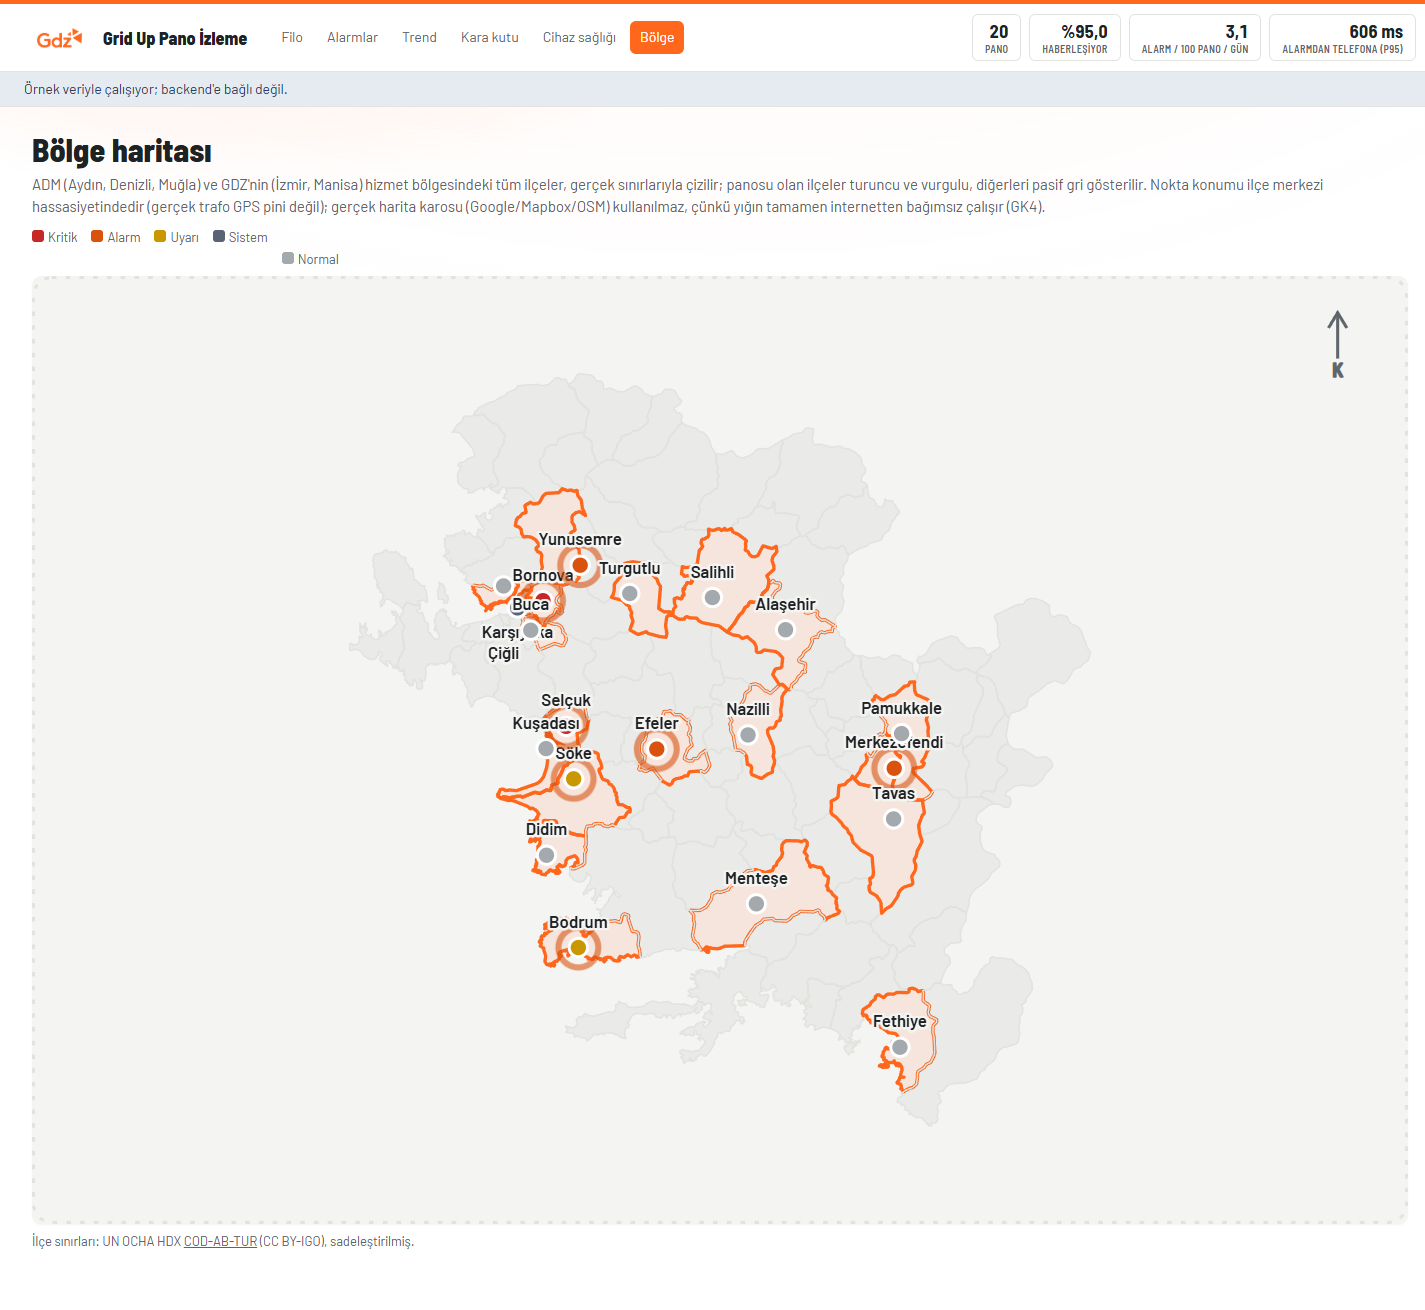
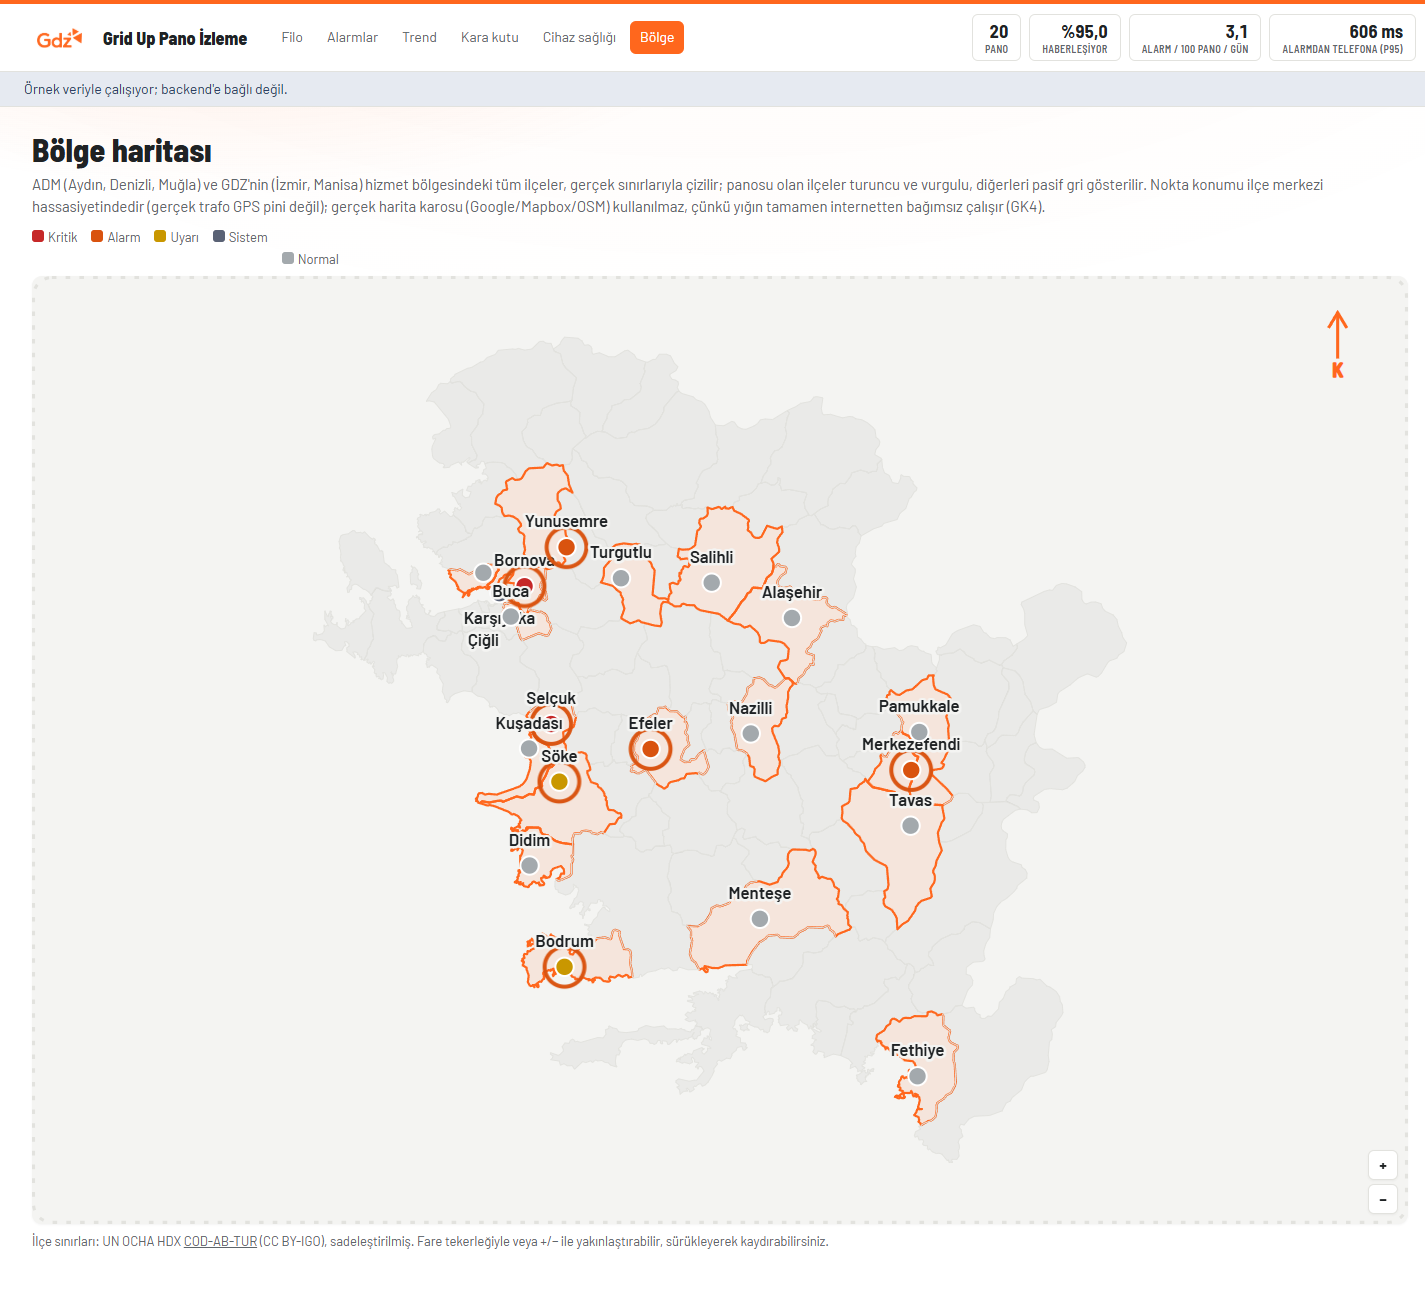
feat(frontend): bolge haritasina zoom/pan, turuncu Kuzey oku, sinir hatasi duzeltmesi
Kullanici geri bildirimi (Mentese ekran goruntusuyle): "Harita olcegini biraz
daha buyut zoom in zoom out da yapilabilsin sag ustteki Kuzey okunu da
turuncu yap... bi kenari duz turuncu var bir de kenari turuncu ici beyaz
cizgiler var sadece duz turuncu olsun sinirlar."

1) Zoom/pan: GeoHarita'ya view={scale,tx,ty} state'i eklendi, tum ilce/nokta
   katmani tek bir <g transform> icine alindi (cerceve ve Kuzey oku sabit
   HUD ogeleri olarak disarida kaldi). Fare tekerlegi imlecin altindaki
   noktayi sabit tutarak yakinlastirir, surukleme kaydirir, sag altta
   +/-/sifirla dugmeleri var (dokunmatik icin de). Nokta/etiket boyutu ve
   kontur kalinliklarinin zoom'la devasa buyumemesi icin /view.scale telafisi
   ve vectorEffect="non-scaling-stroke" eklendi. MAP_PAD 64->40, varsayilan
   gorunum de biraz buyudu.

2) Kuzey oku: .geo-compass rengi notr griden marka turuncusuna cekildi.

3) "Beyaz cizgili" sinir hatasinin gercek bir kok nedeni vardi: ilce
   path'leri fillRule="evenodd" ile ciziliyordu (delikli sekiller icin
   onceden eklenmis bir onlem). Douglas-Peucker sadelestirmesi bazi
   ilcelerde kendine-kesisen bir sinir uretebiliyor — evenodd her kesisimde
   dolgu durumunu tersine cevirdigi icin bu, ilcenin ICINDE dolgusuz
   (beyaz) seritler/delikler olusturuyordu. Gercek il/ilce sinirlarinda
   delik/enklav bu 5 ilde pratikte yok; fillRule kaldirildi (varsayilan
   nonzero), kendine-kesisen kesitlerde artik yanlis "delik" olusmuyor.
[…]

diff --git a/frontend/src/pages/BolgeHaritasi.tsx b/frontend/src/pages/BolgeHaritasi.tsx
@@ -1,3 +1,4 @@
+import { useCallback, useRef, useState } from "react";
 import { Link } from "react-router-dom";
 import type { PanelSummary, Prio } from "../api/types";
 import ilceSinirlari from "../data/ilce-sinirlari.json";
@@ -102,7 +103,9 @@ function layoutLabelOffsets(points: { x: number; y: number; text: string }[]): n
 
 const MAP_W = 900;
 const MAP_H = 620;
-const MAP_PAD = 64;
+const MAP_PAD = 40;
+const ZOOM_MIN = 1;
+const ZOOM_MAX = 6;
 
 /** Gercek enlem/boylamdan yerel, olcek-korumali bir izdusum (kucuk bolgesel alanda yeterince
  *  dogru — boylam, ortalama enlemin kosinusuyle duzeltilir ki sekil dogu-bati yonunde sikismasin). */
@@ -192,52 +195,128 @@ function GeoHarita({ panels, allCount }: { panels: Geo[]; allCount: number }) {
   const dotPoints = separateDots(rawPoints, 17);
   const labelOffsets = layoutLabelOffsets(dotPoints.map((d) => ({ x: d.x, y: d.y, text: d.p.name.split(" ")[0] })));
 
+  const svgRef = useRef<SVGSVGElement>(null);
+  const dragRef = useRef<{ x: number; y: number; tx: number; ty: number } | null>(null);
+  const [view, setView] = useState({ scale: 1, tx: 0, ty: 0 });
+
+  const toSvgPoint = useCallback((clientX: number, clientY: number) => {
+    const rect = svgRef.current?.getBoundingClientRect();
+    if (!rect) return { ux: MAP_W / 2, uy: MAP_H / 2 };
+    return { ux: ((clientX - rect.left) / rect.width) * MAP_W, uy: ((clientY - rect.top) / rect.height) * MAP_H };
+  }, []);
+
+  const zoomAt = useCallback((ux: number, uy: number, factor: number) => {
+    setView((v) => {
+      const scale = Math.min(ZOOM_MAX, Math.max(ZOOM_MIN, v.scale * factor));
+      if (scale === v.scale) return v;
+      const cx = (ux - v.tx) / v.scale;
+      const cy = (uy - v.ty) / v.scale;
+      return { scale, tx: ux - cx * scale, ty: uy - cy * scale };
+    });
+  }, []);
+
+  const onWheel = (e: React.WheelEvent<SVGSVGElement>) => {
+    e.preventDefault();
+    const { ux, uy } = toSvgPoint(e.clientX, e.clientY);
+    zoomAt(ux, uy, e.deltaY < 0 ? 1.18 : 1 / 1.18);
+  };
+  const onPointerDown = (e: React.PointerEvent<SVGSVGElement>) => {
+    if (view.scale === ZOOM_MIN) return;
+    (e.target as Element).setPointerCapture(e.pointerId);
+    dragRef.current = { x: e.clientX, y: e.clientY, tx: view.tx, ty: view.ty };
+  };
+  const onPointerMove = (e: React.PointerEvent<SVGSVGElement>) => {
+    const drag = dragRef.current;
+    const rect = svgRef.current?.getBoundingClientRect();
+    if (!drag || !rect) return;
+    const dx = ((e.clientX - drag.x) / rect.width) * MAP_W;
+    const dy = ((e.clientY - drag.y) / rect.height) * MAP_H;
+    setView((v) => ({ ...v, tx: drag.tx + dx, ty: drag.ty + dy }));
+  };
+  const onPointerUp = () => {
+    dragRef.current = null;
+  };
+
   return (
     <>
-      <svg className="geo-map" viewBox={`0 0 ${MAP_W} ${MAP_H}`} role="group" aria-label="ADM/GDZ hizmet bölgesi ve panoların gerçek konumu">
-        <rect className="geo-frame" x={1} y={1} width={MAP_W - 2} height={MAP_H - 2} rx={12} />
-        <g className="geo-compass" transform={`translate(${MAP_W - 46}, 40)`}>
-          <line x1={0} y1={14} x2={0} y2={-14} />
-          <path d="M -6 -6 L 0 -16 L 6 -6" />
-          <text y={26} textAnchor="middle">K</text>
-        </g>
+      <div className="geo-map-wrap">
+        <svg
+          ref={svgRef}
+          className="geo-map"
+          viewBox={`0 0 ${MAP_W} ${MAP_H}`}
+          role="group"
+          aria-label="ADM/GDZ hizmet bölgesi ve panoların gerçek konumu"
+          onWheel={onWheel}
+          onPointerDown={onPointerDown}
+          onPointerMove={onPointerMove}
+          onPointerUp={onPointerUp}
+          onPointerLeave={onPointerUp}
+          style={{ cursor: view.scale > ZOOM_MIN ? "grab" : "default" }}
+        >
+          <rect className="geo-frame" x={1} y={1} width={MAP_W - 2} height={MAP_H - 2} rx={12} />
+          <g transform={`translate(${view.tx} ${view.ty}) scale(${view.scale})`}>
+            {/* ADM/GDZ'nin tum hizmet bolgesi (96 ilce) — pasif/gri zemin, harita "kopuk" gorunmesin
+                diye (kullanici talebi). Panosu olan ilceler duz turuncu kontur ile vurgulanir.
+                fillRule verilmez (varsayilan nonzero): evenodd, sadelestirmeden kalan kendine-kesisen
+                kenarlarda ilcenin icinde beyaz "cizgiler/delikler" gibi gorunuyordu (kullanici bulgusu). */}
+            {territoryEntries.map(([name, t]) => (
+              <path
+                key={`t-${name}`}
+                className={panelDistricts.has(name) ? "geo-district" : "geo-territory"}
+                d={pathOf(t.geom, project)}
+                vectorEffect="non-scaling-stroke"
+              >
+                <title>{`${name} (${COMPANY[t.company]})`}</title>
+              </path>
+            ))}
 
-        {/* ADM/GDZ'nin tum hizmet bolgesi (96 ilce) — pasif/gri zemin, harita "kopuk" gorunmesin
-            diye (kullanici talebi). Panosu olan ilceler duz turuncu kontur ile vurgulanir. */}
-        {territoryEntries.map(([name, t]) => (
-          <path
-            key={`t-${name}`}
-            className={panelDistricts.has(name) ? "geo-district" : "geo-territory"}
-            d={pathOf(t.geom, project)}
-            fillRule="evenodd"
-          >
-            <title>{`${name} (${COMPANY[t.company]})`}</title>
-          </path>
-        ))}
-
-        {dotPoints.map(({ x, y, p }, i) => {
-          const prio = effectivePrio(p);
-          return (
-            <g key={p.pano_id}>
-              {prio && !["SYS", "INFO"].includes(prio) && <circle className="geo-halo" cx={x} cy={y} r={13} />}
-              <Link to={`/pano/${p.pano_id}`} title={`${p.name} (${p.pano_id}), risk ${p.risk_score}`}>
-                <circle
-                  className={prio ? "geo-dot" : "geo-dot normal"}
-                  style={prio ? { fill: PRIO_COLOR[prio] } : undefined}
-                  cx={x}
-                  cy={y}
-                  r={6}
-                />
-                <text className="geo-label" x={x} y={y + labelOffsets[i]} textAnchor="middle">
-                  {p.name.split(" ")[0]}
-                </text>
-              </Link>
-            </g>
-          );
-        })}
-      </svg>
+            {dotPoints.map(({ x, y, p }, i) => {
+              const prio = effectivePrio(p);
+              return (
+                <g key={p.pano_id}>
+                  {prio && !["SYS", "INFO"].includes(prio) && (
+                    <circle className="geo-halo" cx={x} cy={y} r={13 / view.scale} vectorEffect="non-scaling-stroke" />
+                  )}
+                  <Link to={`/pano/${p.pano_id}`} title={`${p.name} (${p.pano_id}), risk ${p.risk_score}`}>
+                    <circle
+                      className={prio ? "geo-dot" : "geo-dot normal"}
+                      style={prio ? { fill: PRIO_COLOR[prio] } : undefined}
+                      cx={x}
+                      cy={y}
+                      r={6 / view.scale}
+                      vectorEffect="non-scaling-stroke"
+                    />
+                    <text className="geo-label" x={x} y={y + labelOffsets[i] / view.scale} textAnchor="middle" fontSize={11 / view.scale}>
+                      {p.name.split(" ")[0]}
+                    </text>
+                  </Link>
+                </g>
+              );
+            })}
+          </g>
+          <g className="geo-compass" transform={`translate(${MAP_W - 46}, 40)`}>
+            <line x1={0} y1={14} x2={0} y2={-14} />
+            <path d="M -6 -6 L 0 -16 L 6 -6" />
+            <text y={26} textAnchor="middle">K</text>
+          </g>
+        </svg>
+        <div className="geo-zoom">
+          <button type="button" onClick={() => zoomAt(MAP_W / 2, MAP_H / 2, 1.4)} aria-label="Yakınlaştır">
+            +
+          </button>
+          <button type="button" onClick={() => zoomAt(MAP_W / 2, MAP_H / 2, 1 / 1.4)} aria-label="Uzaklaştır">
+            −
+          </button>
+          {view.scale > ZOOM_MIN && (
+            <button type="button" onClick={() => setView({ scale: 1, tx: 0, ty: 0 })} aria-label="Haritayı sıfırla">
+              ⟲
+            </button>
+          )}
+        </div>
+      </div>
       <p className="dim small geo-note">
         İlçe sınırları: UN OCHA HDX <a href="https://data.humdata.org/dataset/cod-ab-tur" target="_blank" rel="noreferrer">COD-AB-TUR</a> (CC BY-IGO), sadeleştirilmiş.
+        Fare tekerleğiyle veya +/− ile yakınlaştırabilir, sürükleyerek kaydırabilirsiniz.
         {missing > 0 && ` ${missing} pano konum verisi olmadığı için haritada gösterilmiyor.`}
       </p>
     </>

diff --git a/frontend/src/app.css b/frontend/src/app.css
@@ -378,10 +378,27 @@
 .region-legend { display: flex; gap: 14px; margin: 10px 0 4px; font-size: 13px; color: var(--dim); flex-wrap: wrap; }
 
 /* Gercek enlem/boylam tabanli konum gorunumu (BolgeHaritasi.tsx GeoHarita) — harita karosu yok. */
-.geo-map { width: 100%; height: auto; display: block; margin-top: 8px; background: var(--well); border-radius: var(--radius); box-shadow: var(--shadow-sm); }
+.geo-map-wrap { position: relative; margin-top: 8px; }
+.geo-map { width: 100%; height: auto; display: block; background: var(--well); border-radius: var(--radius); box-shadow: var(--shadow-sm); touch-action: none; }
 .geo-frame { fill: none; stroke: var(--line); stroke-width: 2; stroke-dasharray: 3 6; }
-.geo-compass { stroke: var(--dim); fill: var(--dim); font: 600 13px var(--cond); }
+/* Kuzey oku: marka turuncusu (kullanici talebi 16 Eylul) — daha once notr griydi. */
+.geo-compass { stroke: var(--brand); fill: var(--brand); font: 600 13px var(--cond); }
 .geo-compass line, .geo-compass path { stroke-width: 2; fill: none; }
+/* Yakinlastir/uzaklastir/sifirla — kullanici talebi 16 Eylul ("zoom in zoom out da yapilabilsin"). */
+.geo-zoom { position: absolute; right: 10px; bottom: 10px; display: flex; flex-direction: column; gap: 4px; }
+.geo-zoom button {
+  width: 30px;
+  height: 30px;
+  border: 1px solid var(--line);
+  background: var(--surface);
+  color: var(--ink);
+  border-radius: var(--radius-sm);
+  font: 700 16px var(--cond);
+  line-height: 1;
+  cursor: pointer;
+  box-shadow: var(--shadow-sm);
+}
+.geo-zoom button:hover { background: var(--well); }
 .geo-dot { stroke: #fff; stroke-width: 2; }
 .geo-dot.normal { fill: var(--dot); }
 .geo-halo { fill: none; stroke: var(--p2); stroke-width: 4; animation: og-pulse 1.6s ease-in-out infinite; }

diff --git a/frontend/TASARIM-REVIZYONU.md b/frontend/TASARIM-REVIZYONU.md
@@ -654,6 +654,38 @@ dairelerde iç içe girenleri vs. düzelt." Üç ayrı düzeltme:
 ile yakınlaştırılıp kontrol edildi — etiketler artık üst üste binmeden dikey olarak ayrışıyor,
 sınırlar düz ve tutarlı turuncu, konsolda hata yok. `assets/ekran/07-bolge-haritasi.png` yenilendi.
 
+## 21. Zoom/pan, turuncu Kuzey oku, sınırlardaki "beyaz çizgi" hatası (16 Eylül, aynı gün)
+
+Kullanıcı harita ekran görüntüsü (Menteşe) gönderip üç şey istedi: "harita ölçeğini biraz daha
+büyüt zoom in zoom out da yapılabilsin sağ üstteki Kuzey okunu da turuncu yap... bi kenarı düz
+turuncu var bir de kenarı turuncu içi beyaz çizgiler var sadece düz turuncu olsun sınırlar."
+
+**Zoom/pan.** `GeoHarita`'ya `view = { scale, tx, ty }` durumu eklendi; tüm ilçe/nokta katmanı tek
+bir `<g transform="translate(tx,ty) scale(scale)">` içine alındı (çerçeve ve Kuzey oku bunun
+dışında kalır — sabit HUD öğeleri). Fare tekerleği imlecin altındaki noktayı sabit tutarak
+yakınlaştırır (`zoomAt`), sürükleme `pointerdown/move/up` ile kaydırır, sağ altta +/−/sıfırla
+düğmeleri var (dokunmatik için de). Nokta/etiket boyutu ve `stroke-width`'lerin zoom'la birlikte
+devasa büyümemesi için nokta/halo/etiket boyutları `/view.scale` ile telafi edildi, sınır ve nokta
+konturlarına `vectorEffect="non-scaling-stroke"` eklendi (ekran pikseli olarak sabit kalır).
+`MAP_PAD` 64→40'a düşürüldü — içerik varsayılan görünümde tuval'i daha çok dolduruyor
+("ölçeği büyüt" isteğinin bir kısmı).
+
+**Kuzey oku.** `.geo-compass`'in rengi `var(--dim)` (nötr gri) → `var(--brand)` (turuncu).
+
+**"Beyaz çizgili" sınır hatası — gerçek bir kök nedeni vardı.** İlçe path'leri `fillRule="evenodd"`
+ile çiziliyordu; bu, delikli (donut) şekiller için güvenli olsun diye eklenmiş bir önlemdi. Ama
+Douglas-Peucker sadeleştirmesi bazı karmaşık/içbükey ilçelerde kendine-kesişen bir sınır üretebilir
+— `evenodd` kuralı her kesişimde dolgu durumunu tersine çevirdiği için, kendine kesişen bir sınırın
+İÇİNDE dolgusuz (beyaz) şeritler/delikler oluşturuyordu — kullanıcının tarif ettiği "kenarı turuncu
+içi beyaz çizgiler" tam olarak buydu. Gerçek il/ilçe sınırlarının (delik/enklav) SVG'de "hole"
+olarak modellenmesi bu 5 ilde pratikte yok; `fillRule` tamamen kaldırıldı (varsayılan `nonzero`),
+bu kendine-kesişen kesitlerde yanlış "delik" oluşturmuyor.
+
+**Doğrulama:** tsc/test/build temiz. Chrome-devtools ile: +/− düğmeleri, fare tekerleği zoom'u,
+sürükleme, sıfırlama butonu, 1440px ve 390px'de kontrol edildi — zoom'da nokta/etiket boyutu ve
+sınır kontur kalınlığı sabit kalıyor, hiçbir ilçede beyaz çizgi/delik yok, Kuzey oku turuncu,
+konsolda hata yok. `assets/ekran/07-bolge-haritasi.png` yenilendi.
+
 ## Kaynaklar
 
 - ADM Elektrik: <https://www.admelektrik.com.tr/> · GDZ Elektrik: <https://www.gdzelektrik.com.tr/>

diff --git a/STATUS.md b/STATUS.md
@@ -9,11 +9,30 @@
 > PLAN.md'de yalnızca kutucuk işaretleme ve "Günlük Kayıt" satırı ekleme yapılır (kural: ortak dosya).
 > Her önemli adımdan sonra bu dosya güncellenir. Dal: `berke/frontend` (origin'e push edildi).
 
-**Son güncelleme:** 16 Eylül 2026 (Glow tamamen kaldırıldı, etiket kontrastı ve nokta çakışması
-düzeltildi, §22).
-**Son commit:** `.geo-district` glow'suz düz turuncu kontur; etiketler koyu renk + hale ile
-okunabilir; birbirine çok yakın noktalar/etiketler artık çakışmıyor (yeni `separateDots`/
-`layoutLabelOffsets`).
+**Son güncelleme:** 16 Eylül 2026 (Harita zoom/pan eklendi, Kuzey oku turuncu, sınırlardaki "beyaz
+çizgi" hatası düzeltildi, §23).
+**Son commit:** `BolgeHaritasi.tsx`'e fare tekerleği/dokunmatik zoom + sürükleme + sıfırlama
+eklendi; `fillRule="evenodd"` kaldırıldı (kendine kesişen sadeleştirilmiş sınırlarda "delik"
+oluşturuyordu).
+
+## 23. Zoom/pan, turuncu Kuzey oku, sınırlardaki "beyaz çizgi" hatası (kullanıcı geri bildirimi)
+
+Kullanıcı Menteşe ekran görüntüsüyle üç şey istedi: haritayı büyüt + zoom in/out eklensin, Kuzey
+oku turuncu olsun, sınırlarda "kenarı turuncu içi beyaz çizgi" görünen kısımlar düzelsin.
+
+Zoom/pan: `view={scale,tx,ty}` state'i + tek bir `<g transform>` katmanı, fare tekerleğiyle
+imlecin altındaki noktayı sabit tutarak yakınlaştırma, sürükleyerek kaydırma, +/−/sıfırla
+düğmeleri. Nokta/etiket boyutu zoom'la büyümesin diye `/view.scale` ile telafi edildi, sınır ve
+nokta konturlarına `vectorEffect="non-scaling-stroke"` eklendi. `MAP_PAD` düşürülerek varsayılan
+görünüm de biraz büyütüldü. Kuzey oku rengi turuncuya çekildi.
+
+"Beyaz çizgi" sorununun gerçek bir kök nedeni vardı: `fillRule="evenodd"`, Douglas-Peucker
+sadeleştirmesinin bazı ilçelerde ürettiği kendine-kesişen kenarları "delik" gibi yorumluyordu.
+Gerçek il/ilçe sınırlarında delik/enklav pratikte yok; `fillRule` kaldırıldı (varsayılan
+`nonzero`), sorun düzeldi. Ayrıntı: `frontend/TASARIM-REVIZYONU.md` §21.
+
+Doğrulama: tsc/test/build temiz, zoom/pan/reset 1440px ve 390px'de test edildi, hiçbir ilçede
+beyaz çizgi kalmadı, konsolda hata yok. `assets/ekran/07-bolge-haritasi.png` yenilendi.
 
 ## 22. Glow kaldırıldı, etiket kontrastı ve nokta çakışması düzeltildi (kullanıcı geri bildirimi)
 
